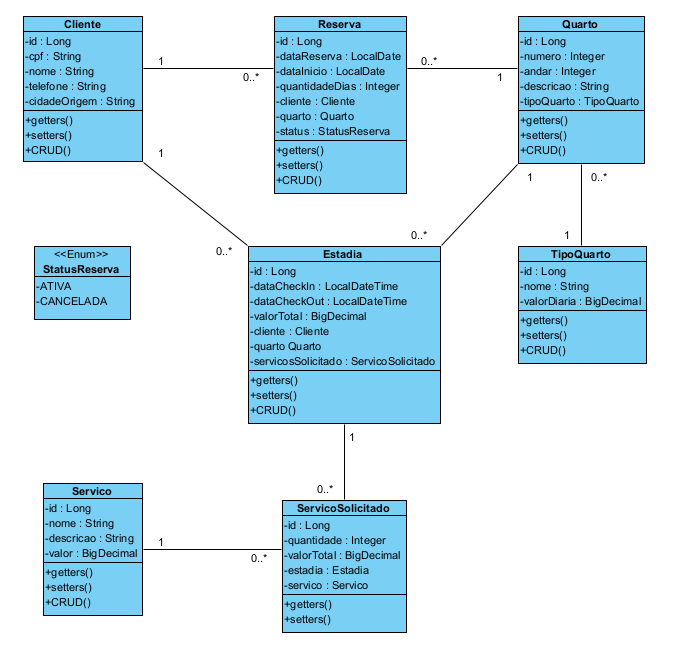
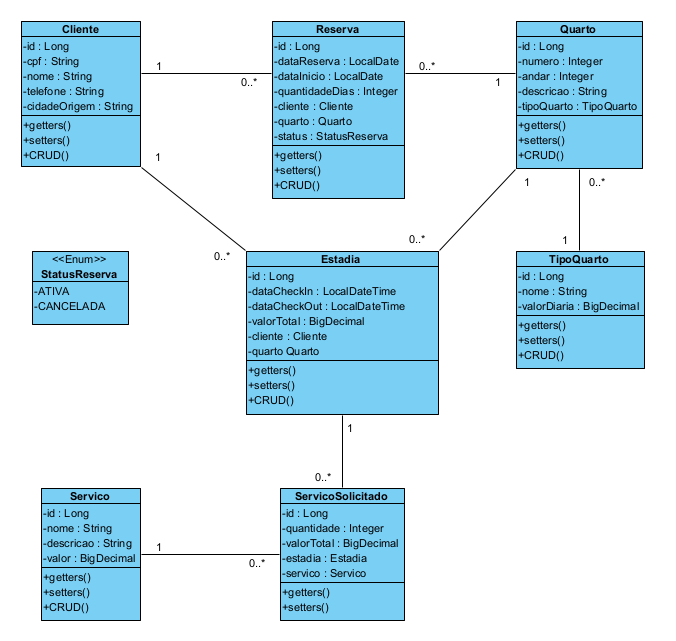
Diagramas, Mappers, DTOs

diff --git a/src/main/java/br/edu/fateczl/hotel/mapper/ServicoSolicitadoMapper.java b/src/main/java/br/edu/fateczl/hotel/mapper/ServicoSolicitadoMapper.java
@@ -1,6 +1,52 @@
 package br.edu.fateczl.hotel.mapper;
 
+import br.edu.fateczl.hotel.dto.ServicoSolicitadoDTO;
+import br.edu.fateczl.hotel.model.Estadia;
+import br.edu.fateczl.hotel.model.Servico;
+import br.edu.fateczl.hotel.model.ServicoSolicitado;
 import org.mapstruct.Mapper;
+import org.mapstruct.Mapping;
+import org.mapstruct.MappingTarget;
+import org.mapstruct.Named;
 
 @Mapper(componentModel = "spring")
-public interface ServicoSolicitadoMapper {}
+public interface ServicoSolicitadoMapper {
+
+    @Mapping(target = "id", ignore = true)
+    @Mapping(target = "estadia", source = "estadiaId", qualifiedByName = "mapEstadiaIdToEstadia")
+    @Mapping(target = "servico", source = "servicoId", qualifiedByName = "mapServicoIdToServico")
+    ServicoSolicitado toEntity(ServicoSolicitadoDTO dto);
+
+    @Mapping(target = "estadiaId", source = "estadia.id")
+    @Mapping(target = "servicoId", source = "servico.id")
+    ServicoSolicitadoDTO toDto(ServicoSolicitado entity);
+
+    @Mapping(target = "id", ignore = true)
+    @Mapping(target = "estadia", source = "estadiaId", qualifiedByName = "mapEstadiaIdToEstadia")
+    @Mapping(target = "servico", source = "servicoId", qualifiedByName = "mapServicoIdToServico")
+    void updateEntityFromDto(ServicoSolicitadoDTO dto, @MappingTarget ServicoSolicitado entity);
+
+    @Named("mapEstadiaIdToEstadia")
+    default Estadia mapEstadiaIdToEstadia(Long id) {
+
+        if (id == null) return null;
+
+        Estadia estadia = new Estadia();
+        estadia.setId(id);
+
+        return estadia;
+
+    }
+
+    @Named("mapServicoIdToServico")
+    default Servico mapServicoIdToServico(Long id) {
+
+        if (id == null) return null;
+
+        Servico servico = new Servico();
+        servico.setId(id);
+
+        return servico;
+    }
+
+}

diff --git a/src/main/java/br/edu/fateczl/hotel/mapper/EstadiaMapper.java b/src/main/java/br/edu/fateczl/hotel/mapper/EstadiaMapper.java
@@ -1,20 +1,53 @@
 package br.edu.fateczl.hotel.mapper;
 
 import br.edu.fateczl.hotel.dto.EstadiaDTO;
+import br.edu.fateczl.hotel.model.Cliente;
 import br.edu.fateczl.hotel.model.Estadia;
+import br.edu.fateczl.hotel.model.Quarto;
 import org.mapstruct.Mapper;
 import org.mapstruct.Mapping;
 import org.mapstruct.MappingTarget;
+import org.mapstruct.Named;
 
 @Mapper(componentModel = "spring")
 public interface EstadiaMapper {
 
     @Mapping(target = "id", ignore = true)
+    @Mapping(target = "cliente", source = "clienteId", qualifiedByName = "mapClienteIdToCliente")
+    @Mapping(target = "quarto", source = "quartoId", qualifiedByName = "mapQuartoIdToQuarto")
     Estadia toEntity(EstadiaDTO dto);
 
+    @Mapping(target = "clienteId", source = "cliente.id")
+    @Mapping(target = "quartoId", source = "quarto.id")
     EstadiaDTO toDto(Estadia entity);
 
     @Mapping(target = "id", ignore = true)
+    @Mapping(target = "cliente", source = "clienteId", qualifiedByName = "mapClienteIdToCliente")
+    @Mapping(target = "quarto", source = "quartoId", qualifiedByName = "mapQuartoIdToQuarto")
     void updateEntityFromDto(EstadiaDTO dto, @MappingTarget Estadia entity);
+
+    @Named("mapClienteIdToCliente")
+    default Cliente mapClienteIdToCliente(Long id) {
+
+        if (id == null) return null;
+
+        Cliente cliente = new Cliente();
+        cliente.setId(id);
+
+        return cliente;
+
+    }
+
+    @Named("mapQuartoIdToQuarto")
+    default Quarto mapQuartoIdToQuarto(Long id) {
+
+        if (id == null) return null;
+
+        Quarto quarto = new Quarto();
+        quarto.setId(id);
+
+        return quarto;
+
+    }
 
 }

diff --git a/src/main/java/br/edu/fateczl/hotel/mapper/ReservaMapper.java b/src/main/java/br/edu/fateczl/hotel/mapper/ReservaMapper.java
@@ -5,16 +5,49 @@ import br.edu.fateczl.hotel.model.Reserva;
 import org.mapstruct.Mapper;
 import org.mapstruct.Mapping;
 import org.mapstruct.MappingTarget;
+import br.edu.fateczl.hotel.model.Cliente;
+import br.edu.fateczl.hotel.model.Quarto;
+import org.mapstruct.Named;
 
 @Mapper(componentModel = "spring")
 public interface ReservaMapper {
 
     @Mapping(target = "id", ignore = true)
+    @Mapping(target = "cliente", source = "clienteId", qualifiedByName = "mapClienteIdToCliente")
+    @Mapping(target = "quarto", source = "quartoId", qualifiedByName = "mapQuartoIdToQuarto")
     Reserva toEntity(ReservaDTO dto);
 
+    @Mapping(target = "clienteId", source = "cliente.id")
+    @Mapping(target = "quartoId", source = "quarto.id")
     ReservaDTO toDto(Reserva entity);
 
     @Mapping(target = "id", ignore = true)
+    @Mapping(target = "cliente", source = "clienteId", qualifiedByName = "mapClienteIdToCliente")
+    @Mapping(target = "quarto", source = "quartoId", qualifiedByName = "mapQuartoIdToQuarto")
     void updateEntityFromDto(ReservaDTO dto, @MappingTarget Reserva entity);
+
+    @Named("mapClienteIdToCliente")
+    default Cliente mapClienteIdToCliente(Long id) {
+
+        if (id == null) return null;
+
+        Cliente cliente = new Cliente();
+        cliente.setId(id);
+
+        return cliente;
+
+    }
+
+    @Named("mapQuartoIdToQuarto")
+    default Quarto mapQuartoIdToQuarto(Long id) {
+
+        if (id == null) return null;
+
+        Quarto quarto = new Quarto();
+        quarto.setId(id);
+
+        return quarto;
+
+    }
 
 }

diff --git a/src/main/java/br/edu/fateczl/hotel/mapper/QuartoMapper.java b/src/main/java/br/edu/fateczl/hotel/mapper/QuartoMapper.java
@@ -2,19 +2,36 @@ package br.edu.fateczl.hotel.mapper;
 
 import br.edu.fateczl.hotel.dto.QuartoDTO;
 import br.edu.fateczl.hotel.model.Quarto;
+import br.edu.fateczl.hotel.model.TipoQuarto;
 import org.mapstruct.Mapper;
 import org.mapstruct.Mapping;
 import org.mapstruct.MappingTarget;
+import org.mapstruct.Named;
 
 @Mapper(componentModel = "spring")
 public interface QuartoMapper {
 
     @Mapping(target = "id", ignore = true)
+    @Mapping(target = "tipoQuarto", source = "tipoQuartoId", qualifiedByName = "mapTipoQuartoIdToTipoQuarto")
     Quarto toEntity(QuartoDTO dto);
 
+    @Mapping(target = "tipoQuartoId", source = "tipoQuarto.id")
     QuartoDTO toDto(Quarto entity);
 
     @Mapping(target = "id", ignore = true)
+    @Mapping(target = "tipoQuarto", source = "tipoQuartoId", qualifiedByName = "mapTipoQuartoIdToTipoQuarto")
     void updateEntityFromDto(QuartoDTO dto, @MappingTarget Quarto entity);
+
+    @Named("mapTipoQuartoIdToTipoQuarto")
+    default TipoQuarto mapTipoQuartoIdToTipoQuarto(Long id) {
+
+        if (id == null) return null;
+
+        TipoQuarto tipo = new TipoQuarto();
+        tipo.setId(id);
+
+        return tipo;
+
+    }
 
 }

diff --git a/src/main/java/br/edu/fateczl/hotel/model/Estadia.java b/src/main/java/br/edu/fateczl/hotel/model/Estadia.java
@@ -5,7 +5,6 @@ import lombok.Data;
 
 import java.math.BigDecimal;
 import java.time.LocalDateTime;
-import java.util.List;
 
 @Data
 @Table(name = "tb_estadias")
@@ -24,6 +23,7 @@ public class Estadia {
 
     @Column(name = "valor_total", nullable = false)
     private BigDecimal valorTotal; // Diarias + Servicos
+    // calcularValorTotal, service? Pq pode ser calculado dinamicamente, nem precisa gravar no banco, só o valor final
 
     @ManyToOne
     @JoinColumn(name = "cliente_id", nullable = false)
@@ -33,7 +33,4 @@ public class Estadia {
     @JoinColumn(name = "quarto_id", nullable = false)
     private Quarto quarto;
 
-    private List<ServicoSolicitado> servicosSolicitados;
-
-    // getValorTotal ou fica na service, seila
 }

diff --git a/src/main/java/br/edu/fateczl/hotel/dto/EstadiaDTO.java b/src/main/java/br/edu/fateczl/hotel/dto/EstadiaDTO.java
@@ -1,12 +1,7 @@
 package br.edu.fateczl.hotel.dto;
 
-import br.edu.fateczl.hotel.model.Cliente;
-import br.edu.fateczl.hotel.model.Quarto;
-import br.edu.fateczl.hotel.model.ServicoSolicitado;
-
 import java.math.BigDecimal;
 import java.time.LocalDateTime;
-import java.util.List;
 
 public record EstadiaDTO(
 
@@ -14,9 +9,7 @@ public record EstadiaDTO(
         LocalDateTime dataCheckIn,
         LocalDateTime dataCheckOut,
         BigDecimal valorTotal,
-        Cliente cliente,
-        Quarto quarto,
-        List<ServicoSolicitado> servicosSolicitados
+        Long clienteId,
+        Long quartoId
 
-) {
-}
+) { }

diff --git a/src/main/java/br/edu/fateczl/hotel/dto/ReservaDTO.java b/src/main/java/br/edu/fateczl/hotel/dto/ReservaDTO.java
@@ -1,7 +1,6 @@
 package br.edu.fateczl.hotel.dto;
 
-import br.edu.fateczl.hotel.model.Cliente;
-import br.edu.fateczl.hotel.model.Quarto;
+import br.edu.fateczl.hotel.enums.StatusReserva;
 
 import java.time.LocalDate;
 
@@ -11,7 +10,8 @@ public record ReservaDTO(
         LocalDate dataReserva,
         LocalDate dataInicio,
         Integer quantidadeDias,
-        Cliente cliente,
-        Quarto quarto
+        Long clienteId,
+        Long quartoId,
+        StatusReserva status
 
 ) { }

diff --git a/src/main/java/br/edu/fateczl/hotel/dto/ServicoSolicitadoDTO.java b/src/main/java/br/edu/fateczl/hotel/dto/ServicoSolicitadoDTO.java
@@ -1,3 +1,13 @@
 package br.edu.fateczl.hotel.dto;
 
-public record ServicoSolicitadoDTO() { }
+import java.math.BigDecimal;
+
+public record ServicoSolicitadoDTO(
+
+        Long id,
+        Integer quantidade,
+        BigDecimal valorTotal,
+        Long estadiaId,
+        Long servicoId
+
+) { }

diff --git a/src/main/java/br/edu/fateczl/hotel/controller/ServicoSolicitadoController.java b/src/main/java/br/edu/fateczl/hotel/controller/ServicoSolicitadoController.java
@@ -4,5 +4,5 @@ import org.springframework.stereotype.Controller;
 import org.springframework.web.bind.annotation.RequestMapping;
 
 @Controller
-@RequestMapping("/servicoSolicitado")
+@RequestMapping("/servico-solicitado")
 public class ServicoSolicitadoController { }

diff --git a/src/main/java/br/edu/fateczl/hotel/dto/QuartoDTO.java b/src/main/java/br/edu/fateczl/hotel/dto/QuartoDTO.java
@@ -5,6 +5,7 @@ public record QuartoDTO(
         Long id,
         Integer numero,
         Integer andar,
-        String descricao
+        String descricao,
+        Long tipoQuartoId
 
-) {}
+) { }
